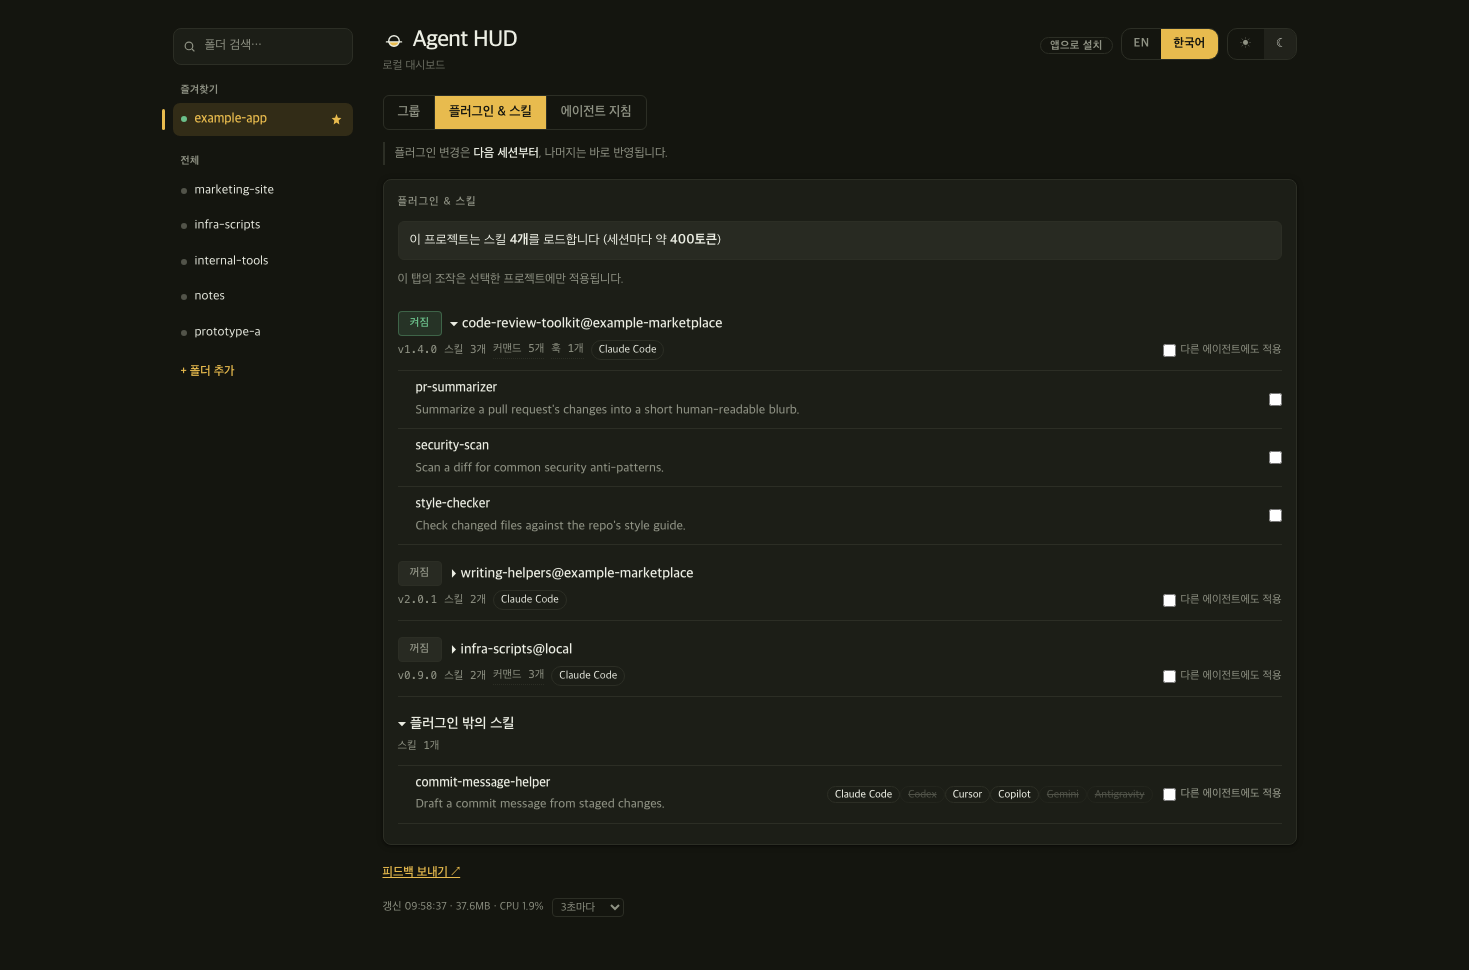
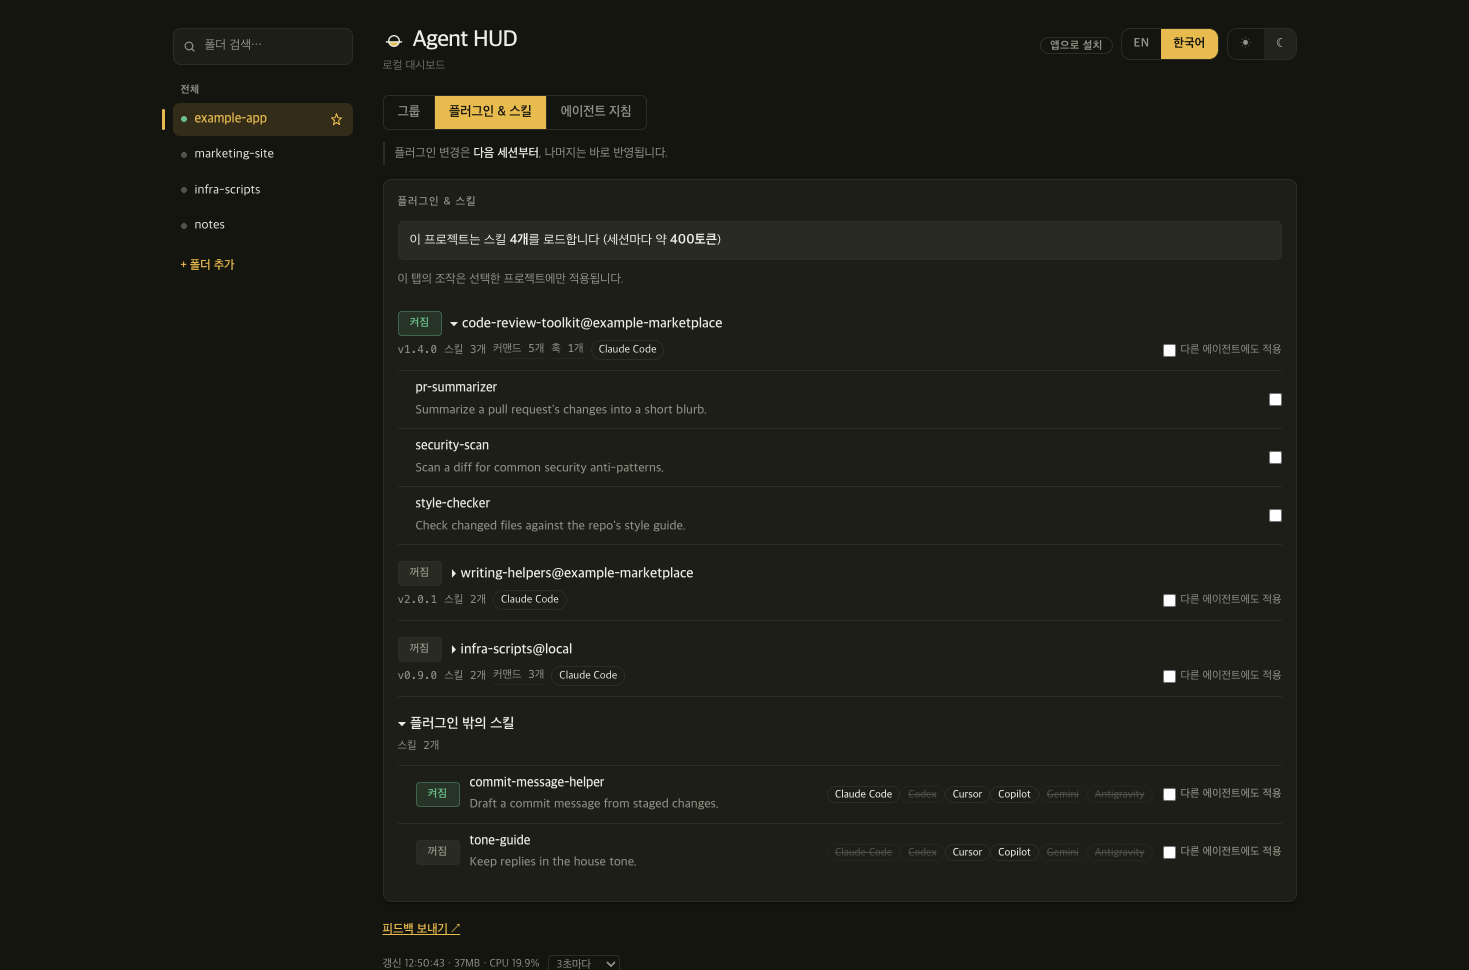
스킬 탭 스크린샷을 다시 찍고, 안 쓰는 claude_only 필드를 지운다
스크린샷에 플러그인 밖 스킬 스위치와 꺼진 스킬의 취소선 뱃지가 보이게 했다.
claude_only는 서버만 쓰고 화면은 읽지 않았다.

diff --git a/server.py b/server.py
@@ -648,7 +648,6 @@ def collect_skills(ctx):
             "components": plugin_components(install_path),
             "version": entry.get("version", "?"),
             "enabled": bool(enabled.get(name, False)),
-            "claude_only": True,
             "modes": [m for m, plist in modes.items() if name in plist],
             "source": mp_src.get("repo") or mp_src.get("path") or mp_name or "?",
             "skills": skills,
@@ -667,7 +666,7 @@ def collect_skills(ctx):
         loose.append(sk)
     if loose:
         rows.append({
-            "name": "", "version": "", "enabled": None, "claude_only": False,
+            "name": "", "version": "", "enabled": None,
             "section_state": _section_state(loose),
             "modes": [], "source": ", ".join(sorted({r for sk in loose for r in sk["roots"]})),
             "skills": loose,
